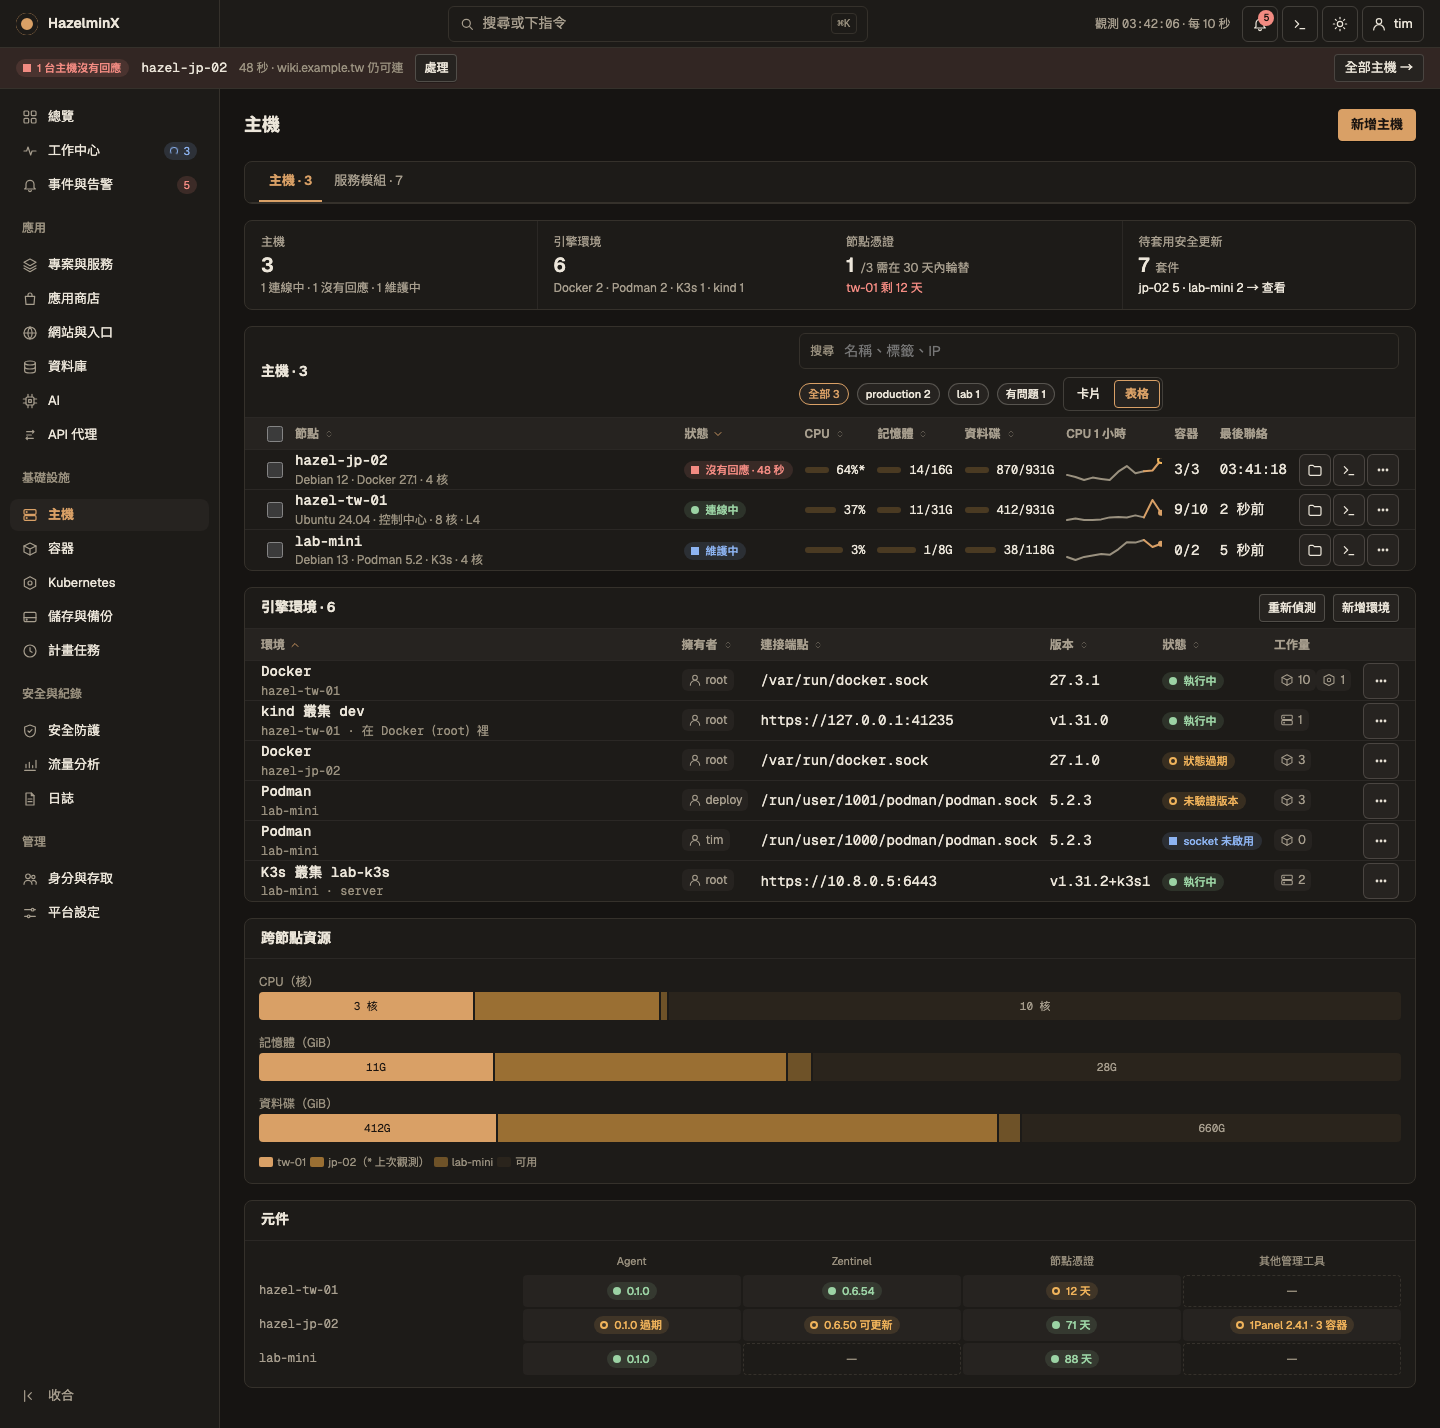
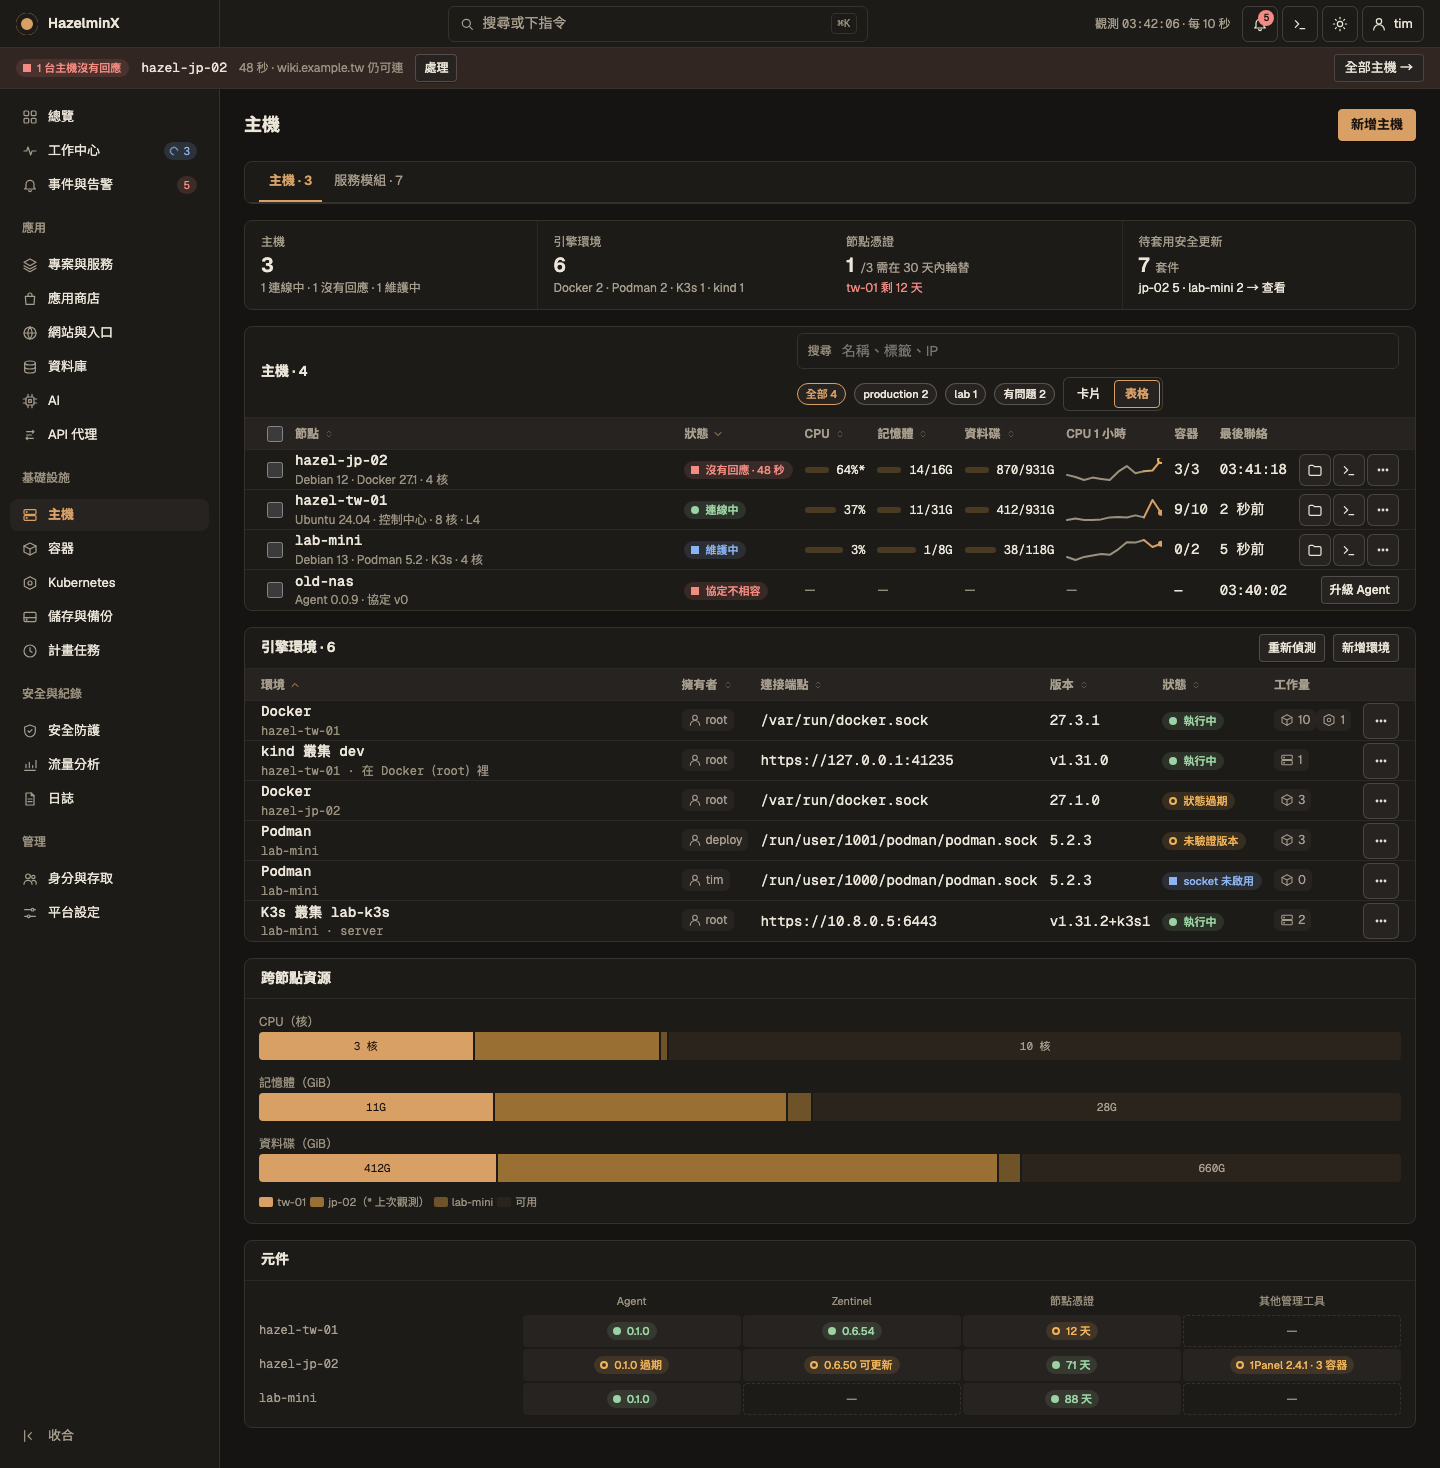
design: protocol-incompatible host state (T-021, from PR #125)

diff --git a/docs/design/screens/Nodes.dc.html b/docs/design/screens/Nodes.dc.html
@@ -482,11 +482,12 @@ body{margin:0}
       <div class="wrap" style="margin-left: auto"><a class="btn pri" href="AddNode.dc.html">新增主機</a></div>
     </div><div class="panel"><div class="tabs" role="tablist"><a class="tab on" role="tab" aria-selected="true" href="Nodes.dc.html">主機 · 3</a><a class="tab" role="tab" aria-selected="false" href="HostServices.dc.html">服務模組 · 7</a></div></div><div class="tiles"><div class="tile"><span class="l">主機</span><span class="v">3</span><span class="tdl"><span class="">1 連線中 · 1 沒有回應 · 1 維護中</span></span></div><div class="tile"><span class="l">引擎環境</span><span class="v">6</span><span class="tdl"><span class="">Docker 2 · Podman 2 · K3s 1 · kind 1</span></span></div><div class="tile"><span class="l">節點憑證</span><span class="v">1<small>/3 需在 30 天內輪替</small></span><span class="tdl"><span class="dn">tw-01 剩 12 天</span></span></div><div class="tile"><span class="l">待套用安全更新</span><span class="v">7<small>套件</small></span><span class="tdl"><span class=""><a href="Updates.dc.html">jp-02 5 · lab-mini 2 → 查看</a></span></span></div></div>
     <section class="panel" aria-labelledby="h-fl" data-sort="1:desc" data-batch>
-      <div class="ph"><h2 id="h-fl">主機 · 3</h2><div class="wrap" style="margin-left:auto"><label class="inp" style="min-width:200px"><span class="note">搜尋</span><input placeholder="名稱、標籤、IP" style="background:transparent;border:0;flex:1;min-width:0"></label><span class="chip on">全部 3</span><span class="chip">production 2</span><span class="chip">lab 1</span><span class="chip">有問題 1</span><span class="range" role="group" aria-label="檢視方式"><button type="button" class="btn" aria-pressed="false">卡片</button><button type="button" class="btn on" aria-pressed="true">表格</button></span></div></div>
+      <div class="ph"><h2 id="h-fl">主機 · 4</h2><div class="wrap" style="margin-left:auto"><label class="inp" style="min-width:200px"><span class="note">搜尋</span><input placeholder="名稱、標籤、IP" style="background:transparent;border:0;flex:1;min-width:0"></label><span class="chip on">全部 4</span><span class="chip">production 2</span><span class="chip">lab 1</span><span class="chip">有問題 2</span><span class="range" role="group" aria-label="檢視方式"><button type="button" class="btn" aria-pressed="false">卡片</button><button type="button" class="btn on" aria-pressed="true">表格</button></span></div></div>
       <div class="tw" style="--tc:44px minmax(min(160px,34%),1fr) auto auto auto var(--k3,auto) var(--k5,auto) var(--k4,auto) var(--k6,auto) auto"><div class="row hd r0 batch"><span class="ck"><input type="checkbox" aria-label="全選"></span><span class=""><span class="sortable">節點 <svg viewBox="0 0 24 24" width="12" height="12" fill="none" stroke="currentColor" stroke-width="1.8" stroke-linecap="round" stroke-linejoin="round" aria-hidden="true"><path d="m8 10 4-4 4 4"/><path d="m8 14 4 4 4-4"/></svg></span></span><span class=""><span class="sortable on">狀態 <svg viewBox="0 0 24 24" width="12" height="12" fill="none" stroke="currentColor" stroke-width="1.8" stroke-linecap="round" stroke-linejoin="round" aria-hidden="true"><path d="m6 9 6 6 6-6"/></svg></span></span><span class=""><span class="sortable">CPU <svg viewBox="0 0 24 24" width="12" height="12" fill="none" stroke="currentColor" stroke-width="1.8" stroke-linecap="round" stroke-linejoin="round" aria-hidden="true"><path d="m8 10 4-4 4 4"/><path d="m8 14 4 4 4-4"/></svg></span></span><span class=""><span class="sortable">記憶體 <svg viewBox="0 0 24 24" width="12" height="12" fill="none" stroke="currentColor" stroke-width="1.8" stroke-linecap="round" stroke-linejoin="round" aria-hidden="true"><path d="m8 10 4-4 4 4"/><path d="m8 14 4 4 4-4"/></svg></span></span><span class="c3"><span class="sortable">資料碟 <svg viewBox="0 0 24 24" width="12" height="12" fill="none" stroke="currentColor" stroke-width="1.8" stroke-linecap="round" stroke-linejoin="round" aria-hidden="true"><path d="m8 10 4-4 4 4"/><path d="m8 14 4 4 4-4"/></svg></span></span><span class="c5">CPU 1 小時</span><span class="c4">容器</span><span class="c6">最後聯絡</span><span class=""></span></div>
       <a class="row r0 batch" href="NodeOffline.dc.html"><span class="ck"><input type="checkbox" aria-label="選取"></span><span class="name"><span class="n mono">hazel-jp-02</span><span class="d">Debian 12 · Docker 27.1 · 4 核</span></span><span><span class="st dng"><i aria-hidden="true"></i>沒有回應 · 48 秒</span></span><span><span class="meter" role="meter" aria-valuenow="64" aria-valuemin="0" aria-valuemax="100" aria-label="64%*"><span class="tr" aria-hidden="true"><span class="fl" style="width: 64%"></span></span><span class="num">64%*</span></span></span><span><span class="meter" role="meter" aria-valuenow="90" aria-valuemin="0" aria-valuemax="100" aria-label="14/16G"><span class="tr" aria-hidden="true"><span class="fl warn" style="width: 90%"></span></span><span class="num">14/16G</span></span></span><span class="c3"><span class="meter" role="meter" aria-valuenow="93" aria-valuemin="0" aria-valuemax="100" aria-label="870/931G"><span class="tr" aria-hidden="true"><span class="fl dng" style="width: 93%"></span></span><span class="num">870/931G</span></span></span><span class="c5"><svg class="sp" width="96" height="24" viewBox="0 0 96 24" aria-hidden="true" style="display:block;max-width:100%"><path d="M1.0,16.9 L9.5,19.0 L18.1,22.0 L26.6,19.6 L35.2,20.9 L43.7,22.0 L52.3,13.7 L60.8,8.1 L69.4,15.3 L77.9,13.2" fill="none" stroke="var(--faint)" stroke-width="2" stroke-linejoin="round" stroke-linecap="round"/><path d="M77.9,13.2 L86.5,12.5 L95.0,2.0" fill="none" stroke="var(--hazel)" stroke-width="2" stroke-linejoin="round" stroke-linecap="round"/><circle cx="95.0" cy="2.0" r="3" fill="var(--panel)" stroke="var(--warn)" stroke-width="2"/></svg></span><span class="mono c4">3/3</span><span class="mono c6">03:41:18</span><span class="acts"><button type="button" class="ib" aria-label="檔案" title="檔案"><svg viewBox="0 0 24 24" width="16" height="16" fill="none" stroke="currentColor" stroke-width="1.8" stroke-linecap="round" stroke-linejoin="round" aria-hidden="true"><path d="M3 7a2 2 0 0 1 2-2h4l2 2h8a2 2 0 0 1 2 2v9a2 2 0 0 1-2 2H5a2 2 0 0 1-2-2V7z"/></svg></button><button type="button" class="ib" aria-label="終端機" title="終端機"><svg viewBox="0 0 24 24" width="16" height="16" fill="none" stroke="currentColor" stroke-width="1.8" stroke-linecap="round" stroke-linejoin="round" aria-hidden="true"><path d="m5 7 5 5-5 5"/><path d="M12 19h7"/></svg></button><button type="button" class="ib" aria-label="更多" title="更多"><svg viewBox="0 0 24 24" width="16" height="16" fill="none" stroke="currentColor" stroke-width="1.8" stroke-linecap="round" stroke-linejoin="round" aria-hidden="true"><circle cx="6" cy="12" r="1.2"/><circle cx="12" cy="12" r="1.2"/><circle cx="18" cy="12" r="1.2"/></svg></button></span></a>
       <a class="row r0 batch" href="NodeDetail.dc.html"><span class="ck"><input type="checkbox" aria-label="選取"></span><span class="name"><span class="n mono">hazel-tw-01</span><span class="d">Ubuntu 24.04 · 控制中心 · 8 核 · L4</span></span><span><span class="st ok"><i aria-hidden="true"></i>連線中</span></span><span><span class="meter" role="meter" aria-valuenow="37" aria-valuemin="0" aria-valuemax="100" aria-label="37%"><span class="tr" aria-hidden="true"><span class="fl" style="width: 37%"></span></span><span class="num">37%</span></span></span><span><span class="meter" role="meter" aria-valuenow="36" aria-valuemin="0" aria-valuemax="100" aria-label="11/31G"><span class="tr" aria-hidden="true"><span class="fl" style="width: 36%"></span></span><span class="num">11/31G</span></span></span><span class="c3"><span class="meter" role="meter" aria-valuenow="44" aria-valuemin="0" aria-valuemax="100" aria-label="412/931G"><span class="tr" aria-hidden="true"><span class="fl" style="width: 44%"></span></span><span class="num">412/931G</span></span></span><span class="c5"><svg class="sp" width="96" height="24" viewBox="0 0 96 24" aria-hidden="true" style="display:block;max-width:100%"><path d="M1.0,22.0 L9.5,20.5 L18.1,22.0 L26.6,22.0 L35.2,21.4 L43.7,19.4 L52.3,19.0 L60.8,19.5 L69.4,17.4 L77.9,19.4" fill="none" stroke="var(--faint)" stroke-width="2" stroke-linejoin="round" stroke-linecap="round"/><path d="M77.9,19.4 L86.5,2.0 L95.0,14.8" fill="none" stroke="var(--hazel)" stroke-width="2" stroke-linejoin="round" stroke-linecap="round"/><circle cx="95.0" cy="14.8" r="3" fill="var(--hazel)"/></svg></span><span class="mono c4">9/10</span><span class="mono c6">2 秒前</span><span class="acts"><button type="button" class="ib" aria-label="檔案" title="檔案"><svg viewBox="0 0 24 24" width="16" height="16" fill="none" stroke="currentColor" stroke-width="1.8" stroke-linecap="round" stroke-linejoin="round" aria-hidden="true"><path d="M3 7a2 2 0 0 1 2-2h4l2 2h8a2 2 0 0 1 2 2v9a2 2 0 0 1-2 2H5a2 2 0 0 1-2-2V7z"/></svg></button><button type="button" class="ib" aria-label="終端機" title="終端機"><svg viewBox="0 0 24 24" width="16" height="16" fill="none" stroke="currentColor" stroke-width="1.8" stroke-linecap="round" stroke-linejoin="round" aria-hidden="true"><path d="m5 7 5 5-5 5"/><path d="M12 19h7"/></svg></button><button type="button" class="ib" aria-label="更多" title="更多"><svg viewBox="0 0 24 24" width="16" height="16" fill="none" stroke="currentColor" stroke-width="1.8" stroke-linecap="round" stroke-linejoin="round" aria-hidden="true"><circle cx="6" cy="12" r="1.2"/><circle cx="12" cy="12" r="1.2"/><circle cx="18" cy="12" r="1.2"/></svg></button></span></a>
-      <a class="row r0 batch" href="NodeDetail.dc.html"><span class="ck"><input type="checkbox" aria-label="選取"></span><span class="name"><span class="n mono">lab-mini</span><span class="d">Debian 13 · Podman 5.2 · K3s · 4 核</span></span><span><span class="st info"><i aria-hidden="true"></i>維護中</span></span><span><span class="meter" role="meter" aria-valuenow="3" aria-valuemin="0" aria-valuemax="100" aria-label="3%"><span class="tr" aria-hidden="true"><span class="fl" style="width: 3%"></span></span><span class="num">3%</span></span></span><span><span class="meter" role="meter" aria-valuenow="14" aria-valuemin="0" aria-valuemax="100" aria-label="1/8G"><span class="tr" aria-hidden="true"><span class="fl" style="width: 14%"></span></span><span class="num">1/8G</span></span></span><span class="c3"><span class="meter" role="meter" aria-valuenow="32" aria-valuemin="0" aria-valuemax="100" aria-label="38/118G"><span class="tr" aria-hidden="true"><span class="fl" style="width: 32%"></span></span><span class="num">38/118G</span></span></span><span class="c5"><svg class="sp" width="96" height="24" viewBox="0 0 96 24" aria-hidden="true" style="display:block;max-width:100%"><path d="M1.0,19.0 L9.5,22.0 L18.1,18.9 L26.6,17.4 L35.2,16.1 L43.7,16.8 L52.3,11.3 L60.8,4.2 L69.4,4.6 L77.9,2.0" fill="none" stroke="var(--faint)" stroke-width="2" stroke-linejoin="round" stroke-linecap="round"/><path d="M77.9,2.0 L86.5,9.0 L95.0,5.8" fill="none" stroke="var(--hazel)" stroke-width="2" stroke-linejoin="round" stroke-linecap="round"/><circle cx="95.0" cy="5.8" r="3" fill="var(--hazel)"/></svg></span><span class="mono c4">0/2</span><span class="mono c6">5 秒前</span><span class="acts"><button type="button" class="ib" aria-label="檔案" title="檔案"><svg viewBox="0 0 24 24" width="16" height="16" fill="none" stroke="currentColor" stroke-width="1.8" stroke-linecap="round" stroke-linejoin="round" aria-hidden="true"><path d="M3 7a2 2 0 0 1 2-2h4l2 2h8a2 2 0 0 1 2 2v9a2 2 0 0 1-2 2H5a2 2 0 0 1-2-2V7z"/></svg></button><button type="button" class="ib" aria-label="終端機" title="終端機"><svg viewBox="0 0 24 24" width="16" height="16" fill="none" stroke="currentColor" stroke-width="1.8" stroke-linecap="round" stroke-linejoin="round" aria-hidden="true"><path d="m5 7 5 5-5 5"/><path d="M12 19h7"/></svg></button><button type="button" class="ib" aria-label="更多" title="更多"><svg viewBox="0 0 24 24" width="16" height="16" fill="none" stroke="currentColor" stroke-width="1.8" stroke-linecap="round" stroke-linejoin="round" aria-hidden="true"><circle cx="6" cy="12" r="1.2"/><circle cx="12" cy="12" r="1.2"/><circle cx="18" cy="12" r="1.2"/></svg></button></span></a></div>
+      <a class="row r0 batch" href="NodeDetail.dc.html"><span class="ck"><input type="checkbox" aria-label="選取"></span><span class="name"><span class="n mono">lab-mini</span><span class="d">Debian 13 · Podman 5.2 · K3s · 4 核</span></span><span><span class="st info"><i aria-hidden="true"></i>維護中</span></span><span><span class="meter" role="meter" aria-valuenow="3" aria-valuemin="0" aria-valuemax="100" aria-label="3%"><span class="tr" aria-hidden="true"><span class="fl" style="width: 3%"></span></span><span class="num">3%</span></span></span><span><span class="meter" role="meter" aria-valuenow="14" aria-valuemin="0" aria-valuemax="100" aria-label="1/8G"><span class="tr" aria-hidden="true"><span class="fl" style="width: 14%"></span></span><span class="num">1/8G</span></span></span><span class="c3"><span class="meter" role="meter" aria-valuenow="32" aria-valuemin="0" aria-valuemax="100" aria-label="38/118G"><span class="tr" aria-hidden="true"><span class="fl" style="width: 32%"></span></span><span class="num">38/118G</span></span></span><span class="c5"><svg class="sp" width="96" height="24" viewBox="0 0 96 24" aria-hidden="true" style="display:block;max-width:100%"><path d="M1.0,19.0 L9.5,22.0 L18.1,18.9 L26.6,17.4 L35.2,16.1 L43.7,16.8 L52.3,11.3 L60.8,4.2 L69.4,4.6 L77.9,2.0" fill="none" stroke="var(--faint)" stroke-width="2" stroke-linejoin="round" stroke-linecap="round"/><path d="M77.9,2.0 L86.5,9.0 L95.0,5.8" fill="none" stroke="var(--hazel)" stroke-width="2" stroke-linejoin="round" stroke-linecap="round"/><circle cx="95.0" cy="5.8" r="3" fill="var(--hazel)"/></svg></span><span class="mono c4">0/2</span><span class="mono c6">5 秒前</span><span class="acts"><button type="button" class="ib" aria-label="檔案" title="檔案"><svg viewBox="0 0 24 24" width="16" height="16" fill="none" stroke="currentColor" stroke-width="1.8" stroke-linecap="round" stroke-linejoin="round" aria-hidden="true"><path d="M3 7a2 2 0 0 1 2-2h4l2 2h8a2 2 0 0 1 2 2v9a2 2 0 0 1-2 2H5a2 2 0 0 1-2-2V7z"/></svg></button><button type="button" class="ib" aria-label="終端機" title="終端機"><svg viewBox="0 0 24 24" width="16" height="16" fill="none" stroke="currentColor" stroke-width="1.8" stroke-linecap="round" stroke-linejoin="round" aria-hidden="true"><path d="m5 7 5 5-5 5"/><path d="M12 19h7"/></svg></button><button type="button" class="ib" aria-label="更多" title="更多"><svg viewBox="0 0 24 24" width="16" height="16" fill="none" stroke="currentColor" stroke-width="1.8" stroke-linecap="round" stroke-linejoin="round" aria-hidden="true"><circle cx="6" cy="12" r="1.2"/><circle cx="12" cy="12" r="1.2"/><circle cx="18" cy="12" r="1.2"/></svg></button></span></a>
+      <div class="row r0 batch"><span class="ck"><input type="checkbox" aria-label="選取"></span><span class="name"><span class="n mono">old-nas</span><span class="d">Agent 0.0.9 · 協定 v0</span></span><span><span tabindex="0" data-tip="控制中心使用協定 v1，這台的 Agent 只支援 v0；平台不送任何命令給它"><span class="st dng"><i aria-hidden="true"></i>協定不相容</span></span></span><span class="note">—</span><span class="note">—</span><span class="c3 note">—</span><span class="c5 note">—</span><span class="mono c4">—</span><span class="mono c6">03:40:02</span><span class="acts"><button type="button" class="btn sm">升級 Agent</button></span></div></div>
     </section>
     <section class="panel" aria-labelledby="h-env" data-sort="0:asc">
       <div class="ph"><h2 id="h-env">引擎環境 · 6</h2><div class="wrap" style="margin-left:auto"><button type="button" class="btn sm">重新偵測</button><a class="btn sm" href="ContainersEmpty.dc.html">新增環境</a></div></div>

diff --git a/docs/design/tools/build_screens.py b/docs/design/tools/build_screens.py
@@ -1072,11 +1072,12 @@ def nodes(part: str | None = None) -> str:
                 f'<span class="mono c4">{ctr}</span><span class="mono c6">{last}</span><span class="acts">{acts}</span></a>')
     fleet = f"""
     <section class="panel" aria-labelledby="h-fl" data-sort="1:desc" data-batch>
-      <div class="ph"><h2 id="h-fl">主機 · 3</h2><div class="wrap" style="margin-left:auto"><label class="inp" style="min-width:200px"><span class="note">搜尋</span><input placeholder="名稱、標籤、IP" style="background:transparent;border:0;flex:1;min-width:0"></label><span class="chip on">全部 3</span><span class="chip">production 2</span><span class="chip">lab 1</span><span class="chip">有問題 1</span><span class="range" role="group" aria-label="檢視方式"><button type="button" class="btn" aria-pressed="false">卡片</button><button type="button" class="btn on" aria-pressed="true">表格</button></span></div></div>
+      <div class="ph"><h2 id="h-fl">主機 · 4</h2><div class="wrap" style="margin-left:auto"><label class="inp" style="min-width:200px"><span class="note">搜尋</span><input placeholder="名稱、標籤、IP" style="background:transparent;border:0;flex:1;min-width:0"></label><span class="chip on">全部 4</span><span class="chip">production 2</span><span class="chip">lab 1</span><span class="chip">有問題 2</span><span class="range" role="group" aria-label="檢視方式"><button type="button" class="btn" aria-pressed="false">卡片</button><button type="button" class="btn on" aria-pressed="true">表格</button></span></div></div>
       <div class="row hd"><span>節點</span><span>狀態</span><span>CPU</span><span>記憶體</span><span class="c3">資料碟</span><span class="c5">CPU 1 小時</span><span class="c4">容器</span><span class="c6">最後聯絡</span><span></span></div>
       {nrow("hazel-jp-02", "Debian 12 · Docker 27.1 · 4 核", U.status("dng", "沒有回應 · 48 秒"), 64, (13.9, 15.5), (870, 931), CPU_JP[-12:], "3/3", "03:41:18", stale=True, href="NodeOffline.dc.html")}
       {nrow("hazel-tw-01", "Ubuntu 24.04 · 控制中心 · 8 核 · L4", U.status("ok", "連線中"), 37, (11.2, 31.3), (412, 931), CPU_TW[-12:], "9/10", "2 秒前")}
       {nrow("lab-mini", "Debian 13 · Podman 5.2 · K3s · 4 核", U.status("info", "維護中"), 3, (1.1, 7.6), (38, 118), CPU_LAB[-12:], "0/2", "5 秒前")}
+      <div class="row"><span class="name"><span class="n mono">old-nas</span><span class="d">Agent 0.0.9 · 協定 v0</span></span><span><span tabindex="0" data-tip="控制中心使用協定 v1，這台的 Agent 只支援 v0；平台不送任何命令給它">{U.status("dng", "協定不相容")}</span></span><span class="note">—</span><span class="note">—</span><span class="c3 note">—</span><span class="c5 note">—</span><span class="mono c4">—</span><span class="mono c6">03:40:02</span><span class="acts"><button type="button" class="btn sm">升級 Agent</button></span></div>
     </section>"""
     cross = f"""
     <section class="panel" aria-labelledby="h-cross">
